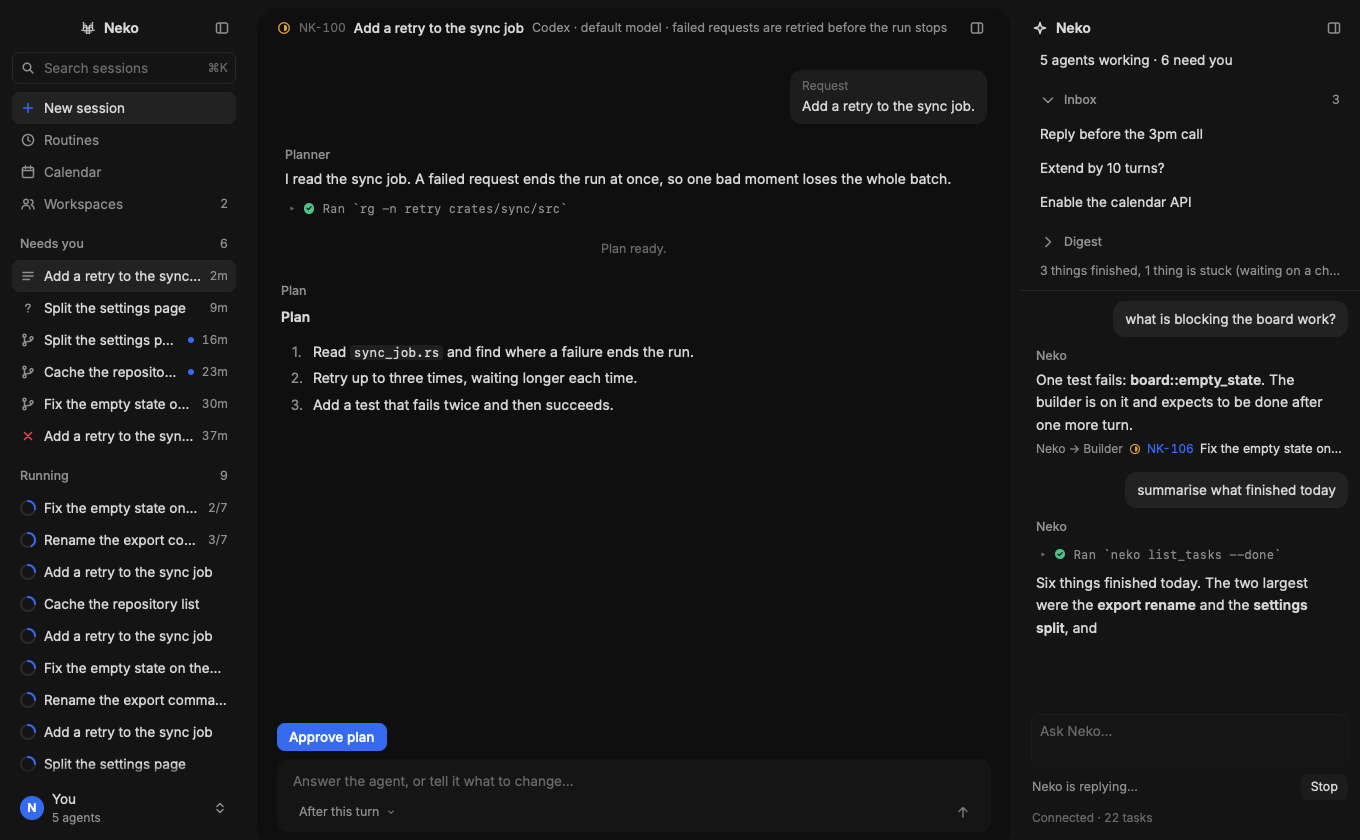
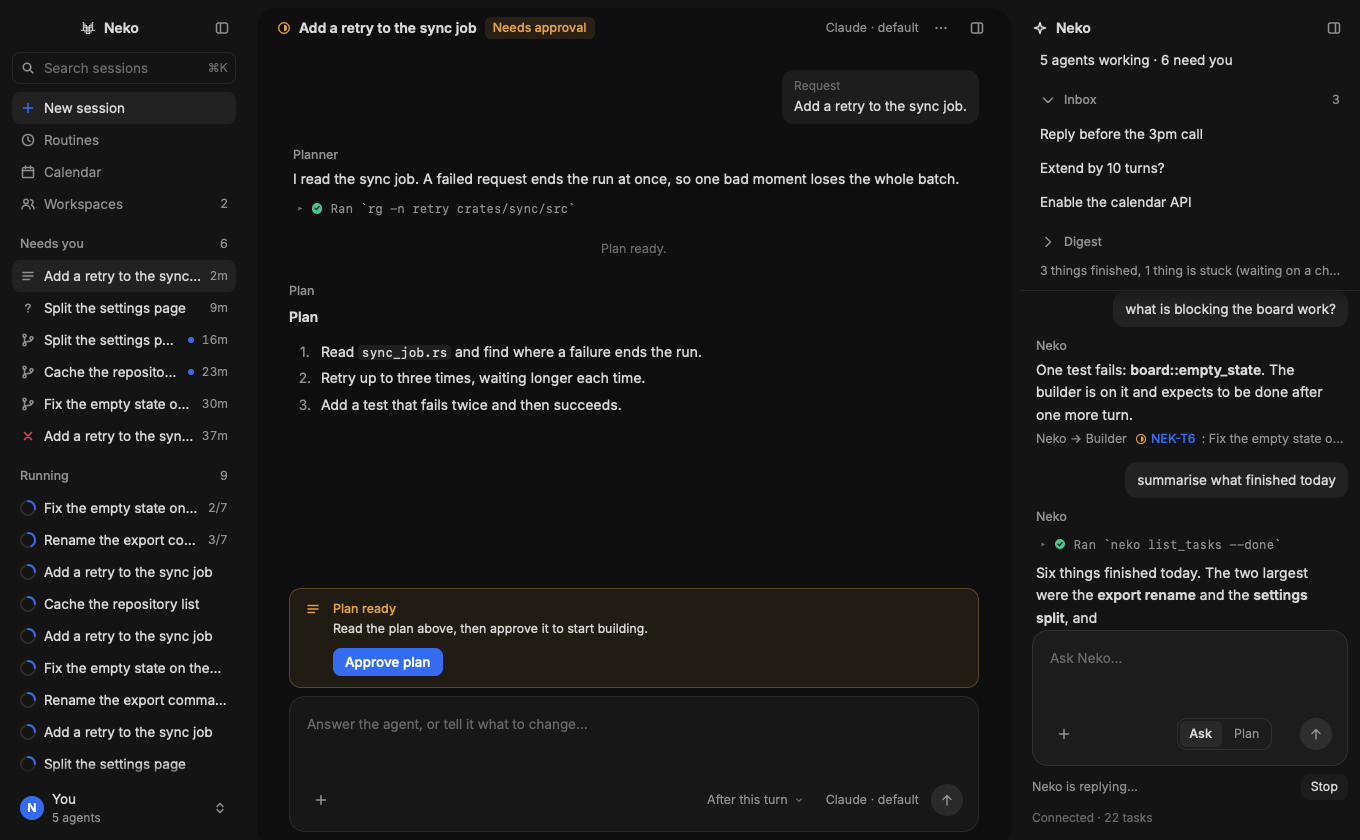
fix(rune): Plan reads numbered or left-edge steps without Markdown, group headings get air, Show all lines lines up; more pictures in the pairs script and refreshed synthetic snaps

diff --git a/apps/neko-rune/src/plan.rs b/apps/neko-rune/src/plan.rs
@@ -20,36 +20,49 @@ pub struct Step {
     pub state: StepState,
 }
 
-fn strip_marker(line: &str) -> Option<&str> {
+/// A list line: its marker taken off, and whether it sits at the left edge (an indented line explains the step above it).
+/// A bullet is `-`, `*` or `+` and a space (so `**bold**` is not one); a number is digits and `.` or `)`.
+fn list_item(line: &str) -> Option<(&str, bool, bool)> {
+    let top = !line.starts_with([' ', '\t']);
     let line = line.trim_start();
-    if let Some(rest) = line.strip_prefix(['-', '*', '+']) {
-        return Some(rest.trim_start());
+    if let Some(rest) = line.strip_prefix(['-', '*', '+']).filter(|r| r.starts_with(' ')) {
+        return Some((rest.trim_start(), top, false));
     }
     let digits = line.chars().take_while(char::is_ascii_digit).count();
-    if digits > 0 && line[digits..].starts_with(['.', ')']) {
-        return Some(line[digits + 1..].trim_start());
+    if digits > 0 && line[digits..].starts_with(['.', ')']) && line[digits + 1..].starts_with(' ') {
+        return Some((line[digits + 1..].trim_start(), top, true));
     }
     None
 }
 
-/// The plan's steps, in order, with the first unticked one active while the task builds.
+/// A step's words without the Markdown around them (`**bold**`, `` `code` ``).
+fn plain(text: &str) -> String {
+    text.replace("**", "").replace('`', "").trim().to_owned()
+}
+
+/// The plan's steps, in order, with the first unticked one active while the task builds. A plan with boxes is its
+/// boxes; else its numbered lines at the left edge; else its bullets at the left edge. Indented lines and prose explain
+/// a step and are not one.
 pub fn steps(plan: &str, status: TaskStatus) -> Vec<Step> {
     let mut boxed: Vec<(String, bool)> = Vec::new();
-    let mut listed: Vec<String> = Vec::new();
+    let mut numbered: Vec<String> = Vec::new();
+    let mut bullets: Vec<String> = Vec::new();
     for line in plan.lines() {
-        let Some(item) = strip_marker(line) else { continue };
+        let Some((item, top, is_number)) = list_item(line) else { continue };
         if let Some(rest) = item.strip_prefix("[x]").or_else(|| item.strip_prefix("[X]")) {
-            boxed.push((rest.trim().to_owned(), true));
+            boxed.push((plain(rest), true));
         } else if let Some(rest) = item.strip_prefix("[ ]") {
-            boxed.push((rest.trim().to_owned(), false));
-        } else if !item.is_empty() {
-            listed.push(item.to_owned());
+            boxed.push((plain(rest), false));
+        } else if top && !item.is_empty() {
+            if is_number { numbered.push(plain(item)) } else { bullets.push(plain(item)) }
         }
     }
-    let mut out: Vec<Step> = if boxed.is_empty() {
-        listed.into_iter().map(|text| Step { text, state: StepState::Todo }).collect()
-    } else {
+    let mut out: Vec<Step> = if !boxed.is_empty() {
         boxed.into_iter().map(|(text, done)| Step { text, state: if done { StepState::Done } else { StepState::Todo } }).collect()
+    } else if !numbered.is_empty() {
+        numbered.into_iter().map(|text| Step { text, state: StepState::Todo }).collect()
+    } else {
+        bullets.into_iter().map(|text| Step { text, state: StepState::Todo }).collect()
     };
     if status == TaskStatus::Building
         && let Some(first) = out.iter_mut().find(|s| s.state == StepState::Todo)
@@ -73,9 +86,12 @@ mod tests {
     }
 
     #[test]
-    fn a_plan_without_boxes_is_its_numbered_and_bulleted_lines() {
-        let s = steps("Steps:\n1. Read the job\n2) Add a retry\n- Test it\nand some prose", TaskStatus::AwaitingApproval);
-        assert_eq!(s.iter().map(|s| s.text.as_str()).collect::<Vec<_>>(), ["Read the job", "Add a retry", "Test it"]);
+    fn a_plan_without_boxes_is_its_numbered_lines_else_its_bullets_and_markdown_is_not_a_step() {
+        let s = steps("Steps:\n1. Read the job\n2) Add a **retry**\n   - an explaining bullet\n- Test it\nand some prose", TaskStatus::AwaitingApproval);
+        assert_eq!(s.iter().map(|s| s.text.as_str()).collect::<Vec<_>>(), ["Read the job", "Add a retry"], "numbered lines at the left edge");
+        let s = steps("- Read the job\n- Add a retry\n  - detail", TaskStatus::AwaitingApproval);
+        assert_eq!(s.iter().map(|s| s.text.as_str()).collect::<Vec<_>>(), ["Read the job", "Add a retry"], "else the bullets");
+        assert!(steps("**Bold lead.** prose\n*emphasis* prose", TaskStatus::Building).is_empty(), "emphasis is not a bullet");
         assert!(steps("Only prose.", TaskStatus::Building).is_empty());
     }
 }

diff --git a/apps/neko-rune/src/lib.rs b/apps/neko-rune/src/lib.rs
@@ -104,6 +104,10 @@ fn init() -> App {
             if let Some(view) = std::env::var("NEKO_RUNE_VIEW").ok().and_then(|v| views::FullView::ALL.into_iter().find(|f| f.web_id() == v)) {
                 app.open_view(view);
             }
+            // The session header's menu open, for the pictures.
+            if std::env::var_os("NEKO_RUNE_MENU").is_some() {
+                app.session_menu = true;
+            }
             // The Settings section for the pictures (`NEKO_RUNE_SECTION=permissions`).
             if let Some(section) = std::env::var("NEKO_RUNE_SECTION").ok().and_then(|v| pages::Section::ALL.into_iter().find(|x| x.key() == v)) {
                 app.pages.section = section;

diff --git a/apps/neko-rune/src/view/routines.rs b/apps/neko-rune/src/view/routines.rs
@@ -52,12 +52,13 @@ pub fn view(s: &App, t: &Neko, layer: &mut Vec<El>) -> El {
             }
         }
     }
-    for (ws, name, list) in &groups {
+    for (i, (ws, name, list)) in groups.iter().enumerate() {
         body = body.child(
             row()
                 .key(format!("routines-group-{ws}"))
                 .w_full()
                 .h(32.0)
+                .mt(if i == 0 { 0.0 } else { 16.0 })
                 .px(6.0)
                 .gap(8.0)
                 .center_y()

diff --git a/apps/neko-rune/src/view/context_terminal.rs b/apps/neko-rune/src/view/context_terminal.rs
@@ -76,6 +76,7 @@ pub fn tab(s: &App, t: &Neko) -> El {
                                 .focusable(true)
                                 .h(24.0)
                                 .px(6.0)
+                                .ml(-6.0)
                                 .mt(2.0)
                                 .center_y()
                                 .radius(t.radius.control)
